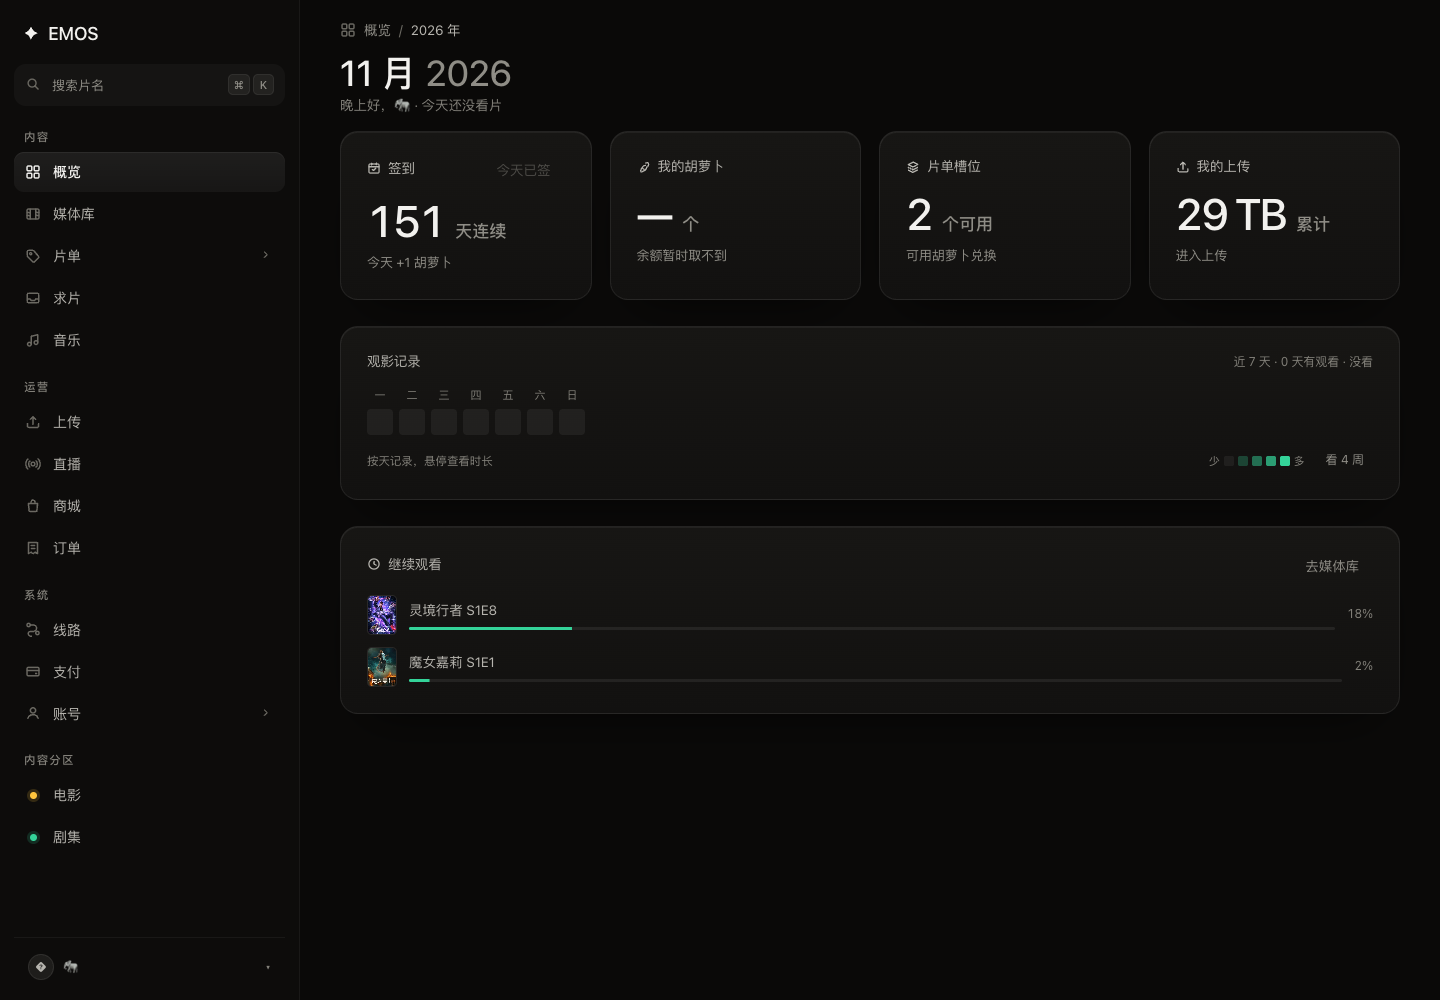
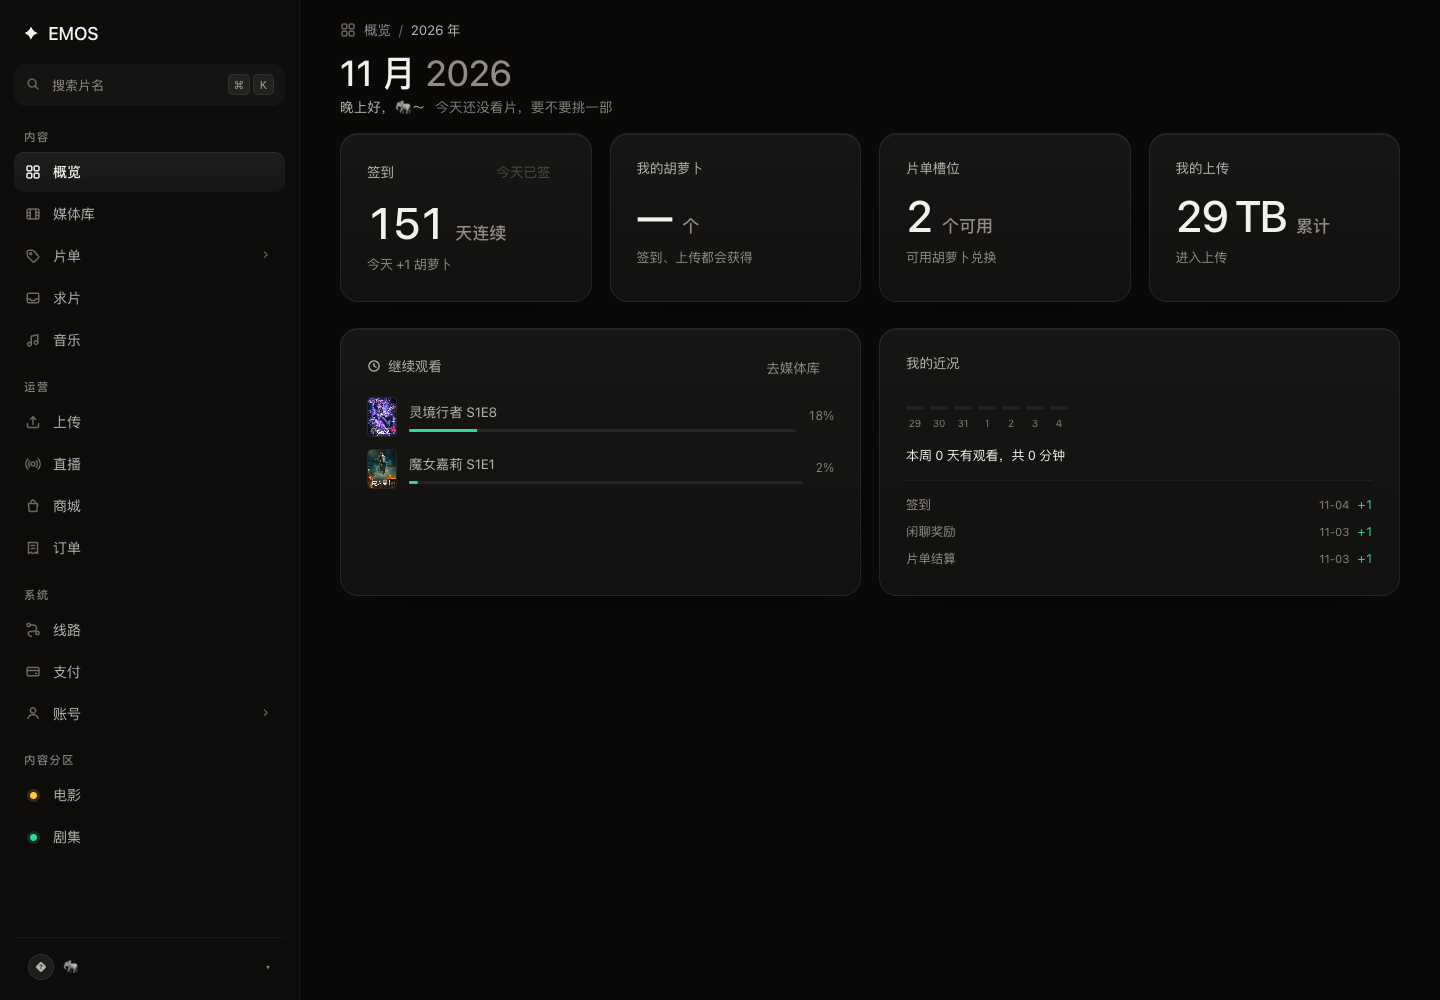
refactor(overview): 收掉图标与整块热力图，改为紧凑近况
- 去掉卡片上新增的图标，保持无 logo 的克制
- 问候语移到标题下，文案更暖（结尾～，按时段变化）
- 观影记录从整块热力图改为两张并排：继续观看 + 我的近况
  （本周 7 天微条 + 本周小结 + 最近 3 条胡萝卜变化）
- 本周无记录时不画空柱，改成一句话
- 胡萝卜改用 /api/user 的字段（/api/carrot/current 在本实例 20s 超时）
- 会话未就绪时显示「读取中/—」，不再把 0 当成真实值

diff --git a/src/views/OverviewView.tsx b/src/views/OverviewView.tsx
@@ -1,12 +1,10 @@
-import { useState } from 'react'
 import { Link } from '@tanstack/react-router'
 import { useMutation, useQueryClient } from '@tanstack/react-query'
 import { PageHeader } from '@/components/PageHeader'
-import { useCapabilities, useCarrot, useContinueWatching, useSession, useWatchStats } from '@/api/queries'
+import { useCapabilities, useCarrot, useCarrotHistory, useContinueWatching, useSession, useWatchStats } from '@/api/queries'
 import { userApi } from '@/api/endpoints'
 import { toast } from '@/ui/toast'
-import { WatchHeatmap } from '@/components/WatchHeatmap'
-import { IconCalendar, IconCarrot, IconClock, IconLayers, IconUpload } from '@/components/icons'
+import { IconClock } from '@/components/icons'
 import { formatSize, formatThousand } from '@/lib/format'
 
 export function OverviewView() {
@@ -14,8 +12,9 @@ export function OverviewView() {
   const session = useSession()
   const carrot = useCarrot()
   const watching = useContinueWatching()
-  const [weeks, setWeeks] = useState(1)
-  const stats = useWatchStats(weeks)
+  const stats = useWatchStats(1)
+  const carrotHistory = useCarrotHistory(1, 3)
+  const ready = Boolean(session.data)
   const qc = useQueryClient()
 
   const sign = useMutation({
@@ -40,27 +39,27 @@ export function OverviewView() {
   const todaySeconds = stats.data?.byDate[todayKey] ?? 0
   const todayText =
     todaySeconds > 0
-      ? `今天看了 ${Math.round(todaySeconds / 60)} 分钟`
+      ? `今天已经看了 ${Math.round(todaySeconds / 60)} 分钟`
       : hour >= 18
-        ? '今天还没看片'
-        : '今天还没有观看记录'
+        ? '今天还没看片，要不要挑一部'
+        : hour < 11
+          ? '新的一天，来看点什么'
+          : '还没有开始看，随时都行'
 
   return (
     <>
       <PageHeader crumb={['概览', `${year} 年`]} title={monthName} hint={year} />
 
-      <p className="muted" style={{ margin: '2px 0 0', fontSize: 13.5 }}>
+      <p className="greeting">
         {greeting}
-        {displayName ? `，${displayName}` : ''} · {todayText}
+        {displayName ? `，${displayName}` : ''}～
+        <span>{todayText}</span>
       </p>
 
       <section className="cards" style={{ gridTemplateColumns: 'repeat(4, minmax(0, 1fr))', marginTop: 16 }}>
         <article className="card">
           <div style={{ display: 'flex', alignItems: 'baseline', justifyContent: 'space-between', gap: 12 }}>
-            <p className="stat__label" style={{ margin: 0, display: 'flex', alignItems: 'center', gap: 7 }}>
-              <IconCalendar size={14} />
-              签到
-            </p>
+            <p className="stat__label" style={{ margin: 0 }}>签到</p>
             <button
               className={signedToday ? 'btn btn--quiet' : 'btn btn--primary'}
               style={{ height: 28 }}
@@ -71,8 +70,8 @@ export function OverviewView() {
             </button>
           </div>
           <p className="stat__value" style={{ marginTop: 14 }}>
-            {signedToday ? (signInfo?.continuous_days ?? 0) : '—'}
-            <small>{signedToday ? '天连续' : '还没签到'}</small>
+            {!ready ? '—' : signedToday ? (signInfo?.continuous_days ?? 0) : '—'}
+            <small>{!ready ? '读取中' : signedToday ? '天连续' : '还没签到'}</small>
           </p>
           <p className="stat__delta stat__delta--quiet" style={{ marginTop: 10 }}>
             {signedToday ? `今天 +${signInfo?.earn_point ?? 0} 胡萝卜` : '签到可得胡萝卜'}
@@ -80,26 +79,20 @@ export function OverviewView() {
         </article>
 
         <article className="card">
-          <p className="stat__label" style={{ display: 'flex', alignItems: 'center', gap: 7 }}>
-            <IconCarrot size={14} />
-            我的胡萝卜
-          </p>
+          <p className="stat__label">我的胡萝卜</p>
           <p className="stat__value">
-            {carrot.data ? formatThousand(carrot.data.carrot) : '—'}
+            {formatThousand(carrot.data?.carrot ?? session.data?.carrot ?? 0)}
             <small>个</small>
           </p>
           <p className="stat__delta stat__delta--quiet" style={{ marginTop: 10 }}>
-            {carrot.error ? '余额暂时取不到' : '签到、上传都会获得'}
+            签到、上传都会获得
           </p>
         </article>
 
         <Link className="card todo" to="/watchlists" search={{ page: 1, page_size: 20, scope: 'self', type: 'video' }}>
-          <p className="stat__label" style={{ display: 'flex', alignItems: 'center', gap: 7 }}>
-            <IconLayers size={14} />
-            片单槽位
-          </p>
+          <p className="stat__label">片单槽位</p>
           <p className="stat__value">
-            {caps.slotRemaining}
+            {ready ? caps.slotRemaining : '—'}
             <small>个可用</small>
           </p>
           <p className="stat__delta stat__delta--quiet" style={{ marginTop: 10 }}>
@@ -108,27 +101,18 @@ export function OverviewView() {
         </Link>
 
         <Link className="card todo" to="/upload">
-          <p className="stat__label" style={{ display: 'flex', alignItems: 'center', gap: 7 }}>
-            <IconUpload size={14} />
-            我的上传
-          </p>
+          <p className="stat__label">我的上传</p>
           <p className="stat__value">
-            {caps.sizeUpload > 0 ? formatSize(caps.sizeUpload) : '0 B'}
+            {!ready ? '—' : caps.sizeUpload > 0 ? formatSize(caps.sizeUpload) : '0 B'}
             <small>累计</small>
           </p>
           <p className="stat__delta stat__delta--quiet" style={{ marginTop: 10 }}>
-            {caps.canUpload ? '进入上传' : '上传权限未开通'}
+            {!ready ? '读取中' : caps.canUpload ? '进入上传' : '上传权限未开通'}
           </p>
         </Link>
       </section>
 
-      <section className="cards cards--wide">
-        <article className="card">
-          <WatchHeatmap stats={stats.data} loading={stats.isLoading} onExpand={weeks === 1 ? () => setWeeks(4) : undefined} />
-        </article>
-      </section>
-
-      <section className="cards cards--wide">
+      <section className="cards" style={{ gridTemplateColumns: 'repeat(2, minmax(0, 1fr))' }}>
         <article className="card">
           <div style={{ display: 'flex', alignItems: 'baseline', justifyContent: 'space-between', gap: 12 }}>
             <p className="stat__label" style={{ margin: 0, display: 'flex', alignItems: 'center', gap: 7 }}>
@@ -183,6 +167,63 @@ export function OverviewView() {
               )
             })}
           </ul>
+        </article>
+
+        <article className="card">
+          <p className="stat__label">我的近况</p>
+
+          {stats.data && stats.data.activeDays === 0 ? (
+            <p className="state__hint" style={{ textAlign: 'left', padding: '14px 0 0' }}>
+              本周还没有观看记录，去媒体库挑一部吧～
+            </p>
+          ) : null}
+
+          <div style={{ display: stats.data?.activeDays === 0 ? 'none' : 'flex', alignItems: 'flex-end', gap: 6, marginTop: 14, height: 44 }}>
+            {(stats.data?.weeks[0] ?? []).map((day) => {
+              const minutes = Math.round(day.seconds / 60)
+              const h = minutes <= 0 ? 10 : Math.min(40, 12 + Math.round(minutes / 3))
+              return (
+                <span key={day.date} title={`${day.date} · ${minutes > 0 ? `${minutes} 分钟` : '没看'}`} style={{ display: 'grid', gap: 6, justifyItems: 'center' }}>
+                  <span
+                    style={{
+                      width: 18,
+                      height: h,
+                      borderRadius: 3,
+                      background: minutes > 0 ? 'rgba(52,211,153,0.85)' : 'rgba(255,255,255,0.06)',
+                    }}
+                  />
+                  <span className="muted" style={{ fontSize: 10 }}>
+                    {new Date(`${day.date}T00:00:00`).getDate()}
+                  </span>
+                </span>
+              )
+            })}
+            {!stats.data ? <span className="muted" style={{ fontSize: 12 }}>取数中…</span> : null}
+          </div>
+
+          <p className="state__hint" style={{ textAlign: 'left', marginTop: 12 }}>
+            {stats.data && stats.data.activeDays > 0
+              ? `本周 ${stats.data.activeDays} 天有观看，共 ${Math.round(stats.data.totalSeconds / 60)} 分钟`
+              : stats.data
+                ? '本周还没有观看记录'
+                : '正在读取本周记录'}
+          </p>
+
+          {carrotHistory.data && carrotHistory.data.items.length > 0 ? (
+            <ul style={{ display: 'grid', gap: 8, marginTop: 14, paddingTop: 14, borderTop: '1px solid var(--line-soft)' }}>
+              {carrotHistory.data.items.slice(0, 3).map((row, index) => (
+                <li key={index} style={{ display: 'flex', alignItems: 'baseline', gap: 8, fontSize: 12.5 }}>
+                  <span style={{ color: 'var(--fg-3)' }}>{row.trigger_type_string || row.trigger_type}</span>
+                  <span className="muted" style={{ marginLeft: 'auto', fontSize: 11.5 }}>
+                    {String(row.created_at).slice(5, 10)}
+                  </span>
+                  <span className="tnum" style={{ color: row.point >= 0 ? 'var(--c-green)' : 'var(--c-red)' }}>
+                    {row.point > 0 ? '+' : ''}{row.point}
+                  </span>
+                </li>
+              ))}
+            </ul>
+          ) : null}
         </article>
       </section>
     </>

diff --git a/src/styles/components.css b/src/styles/components.css
@@ -1077,3 +1077,14 @@ th.num .th-sort { flex-direction: row-reverse; }
 }
 .card.todo:hover { border-color: var(--line-hot); }
 .card.todo:focus-visible { outline-offset: 3px; }
+
+.greeting {
+  margin: 4px 0 0;
+  font-size: 13.5px;
+  color: var(--fg-2);
+  letter-spacing: 0.01em;
+}
+.greeting span {
+  color: var(--fg-4);
+  margin-left: 10px;
+}
